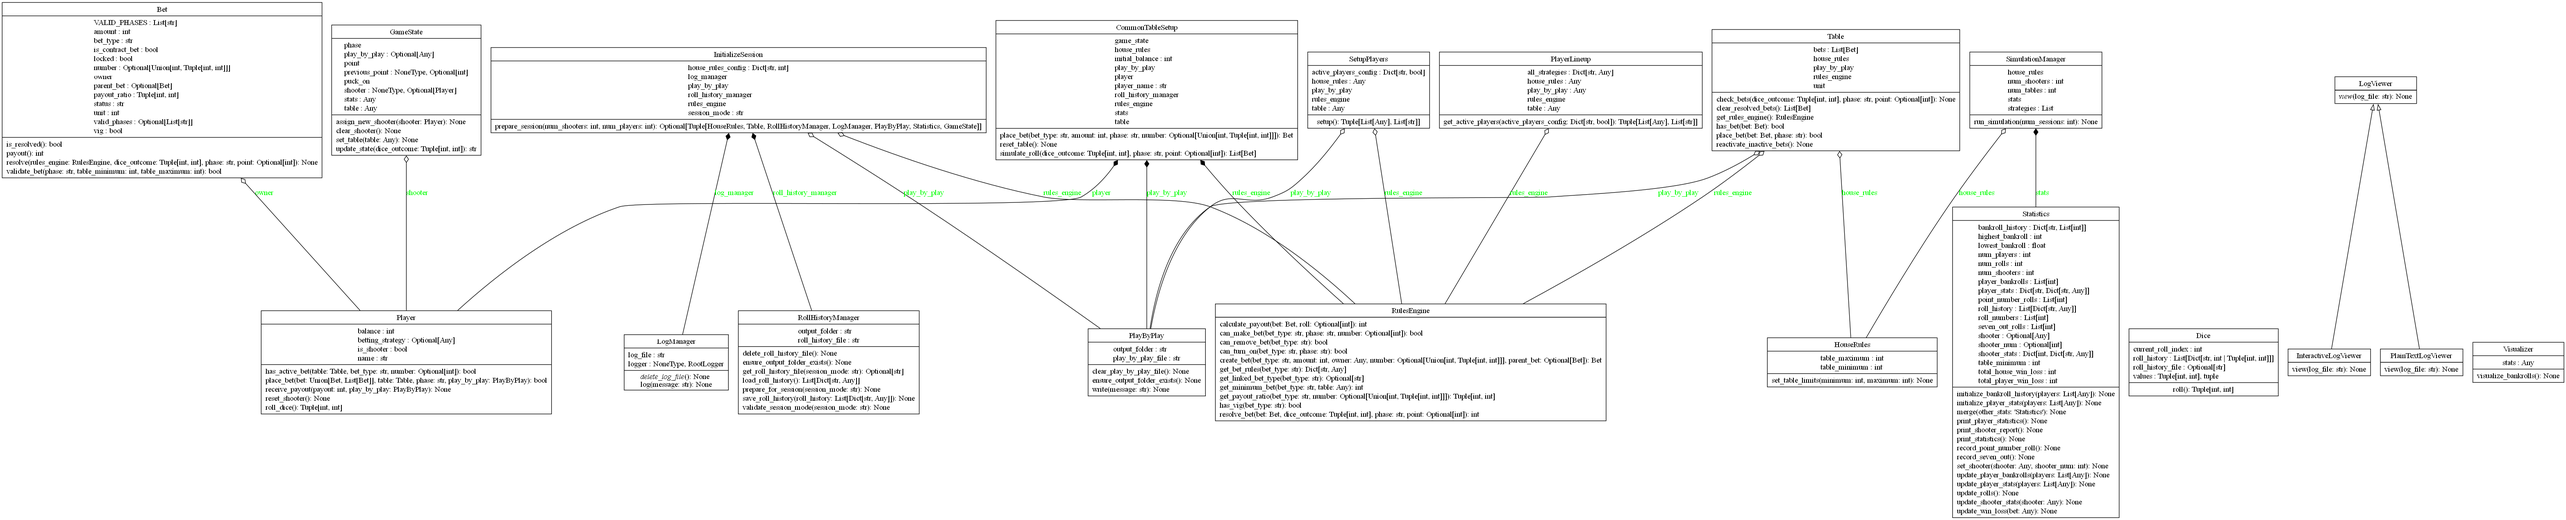
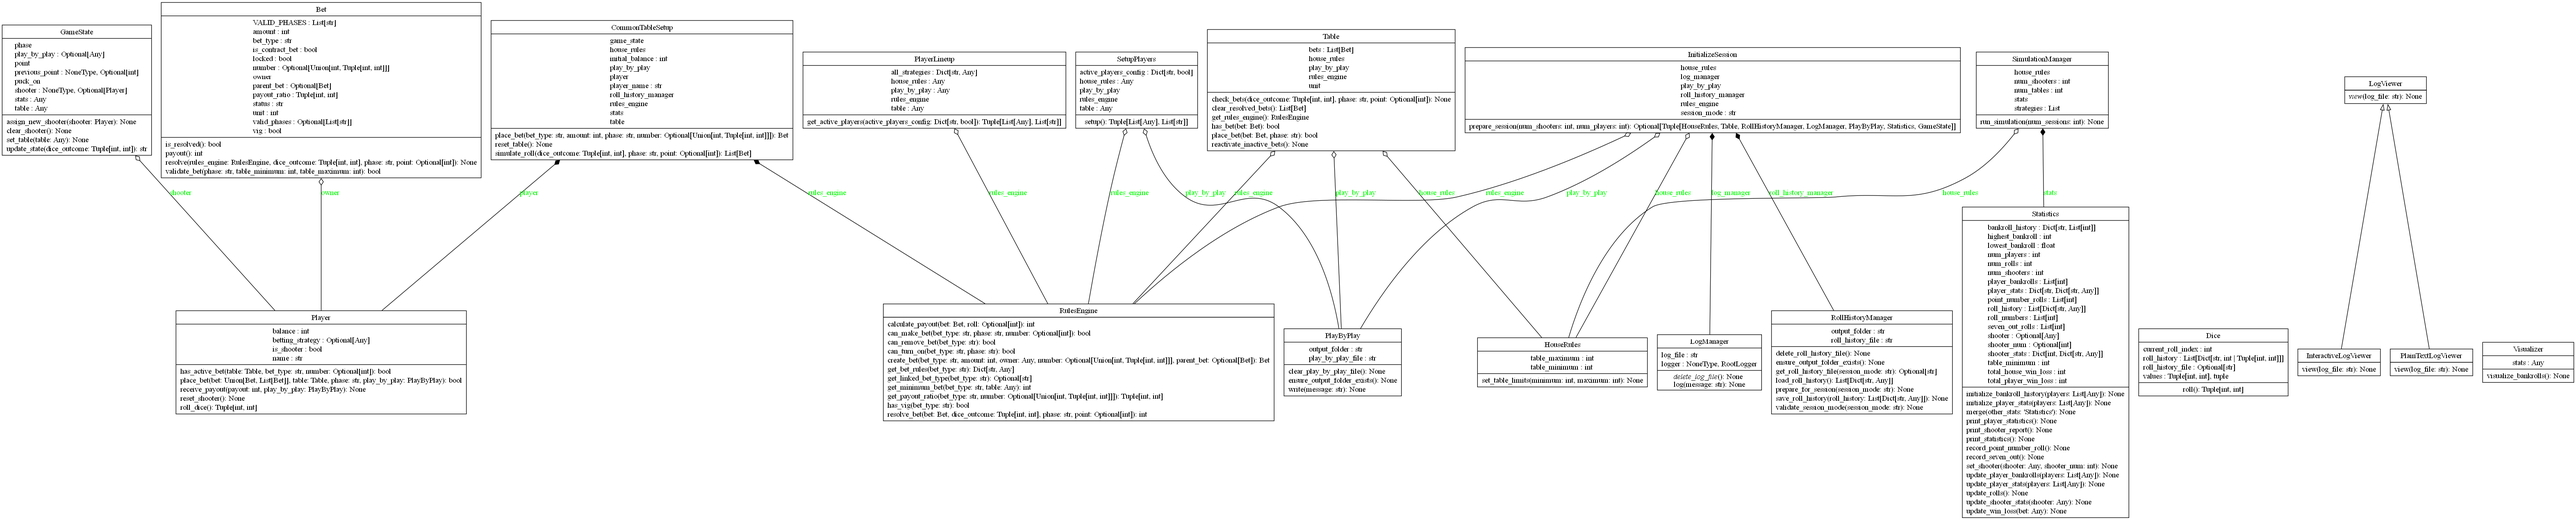
Refactored HouseRules on Session Initialization

diff --git a/craps/single_session.py b/craps/single_session.py
@@ -1,7 +1,5 @@
 from colorama import init, Fore, Style
 from typing import List, Optional, Any
-from craps.table import Table
-from craps.game_state import GameState
 from craps.player import Player
 from craps.dice import Dice
 from craps.statistics import Statistics
@@ -9,64 +7,77 @@ from craps.house_rules import HouseRules
 from craps.log_manager import LogManager
 from craps.session_initializer import InitializeSession
 from craps.rules_engine import RulesEngine
-from craps.log_manager import LogManager
 from craps.play_by_play import PlayByPlay
+from config import HOUSE_RULES
 import os
 
 def run_single_session(
-    house_rules: HouseRules,
-    strategies: List[Any],
+    house_rules: Optional[HouseRules] = None,  # ✅ Default to None, fix later
+    strategies: Optional[List[Any]] = None,
     player_names: Optional[List[str]] = None, 
-    initial_bankroll: int = 500, 
-    num_shooters: int = 10, 
+    initial_bankroll: Optional[int] = 500, 
+    num_shooters: Optional[int] = 10, 
     roll_history_file: Optional[str] = None
 ) -> Statistics:
     """
     Run a single session of craps and log the roll history.
     """
     init()  # Initialize colorama
+    
+    # ✅ Ensure house_rules is an object, not a dict
+    if house_rules is None:
+        house_rules = HouseRules(HOUSE_RULES)  # ✅ Convert from dict if needed
 
     # Set dice mode
     dice = Dice(roll_history_file) if roll_history_file and os.path.exists(roll_history_file) else Dice()
 
-    # ✅ Initialize session level objects
+    # ✅ Initialize session-level objects
     rules_engine = RulesEngine()
     play_by_play = PlayByPlay()
     log_manager = LogManager()
 
-    # ✅ Pass RulesEngine to InitializeSession
     session_initializer = InitializeSession(
-        session_mode="live", 
-        house_rules_config={"table_minimum": house_rules.table_minimum, "table_maximum": house_rules.table_maximum},
-        play_by_play=play_by_play,  # ✅ Fix: Now passing PlayByPlay
-        log_manager=log_manager,  # ✅ Fix: Now passing LogManager
+        session_mode="live",
+        house_rules=house_rules,  # ✅ Now guaranteed to be a HouseRules object
+        play_by_play=play_by_play,
+        log_manager=log_manager,
         rules_engine=rules_engine
     )
-    session_data = session_initializer.prepare_session(num_shooters, len(strategies))
-    
+    session_data = session_initializer.prepare_session(
+        num_shooters or 10,  # ✅ Default if None
+        len(strategies or [])  # ✅ Safe check for None
+    )
+
     if session_data is None:
         raise RuntimeError("Failed to initialize session.")
 
     house_rules, table, roll_history_manager, log_manager, play_by_play, stats, game_state = session_data
 
-    # Create players with different betting strategies
+    # ✅ Ensure player names are assigned
     if player_names is None:
-        player_names = [f"Player {i+1}" for i in range(len(strategies))]
+        player_names = [f"Player {i+1}" for i in range(len(strategies or []))]
 
+    # ✅ Ensure initial bankroll is an int
     players = [
-        Player(player_names[i], initial_balance=initial_bankroll, betting_strategy=strategy)
-        for i, strategy in enumerate(strategies)
+        Player(player_names[i], initial_balance=initial_bankroll or 500, betting_strategy=strategy)
+        for i, strategy in enumerate(strategies or [])
     ]
 
-    # Initialize bankroll history with the starting bankroll for each player
+    # ✅ Initialize bankroll history with the starting bankroll for each player
     stats.initialize_bankroll_history(players)
 
-    # Initialize roll history
+    # ✅ Ensure players is always valid
+    if not players:
+        raise RuntimeError("No players found. Cannot start session.")
+
+    # ✅ Initialize roll history
     roll_history = []
 
-    # Simulate shooters
+    # ✅ Simulate shooters
+    if num_shooters is None: num_shooters = 10
+
     for shooter_num in range(1, num_shooters + 1):
-        player_index = (shooter_num - 1) % len(players)
+        player_index = (shooter_num - 1) % len(players)  # ✅ Safe calculation
         shooter = players[player_index]
 
         # Assign new shooter via GameState
@@ -80,7 +91,7 @@ def run_single_session(
                     player.place_bet(bet, table, game_state.phase, play_by_play)
 
             # Roll the dice and resolve bets
-            outcome = (dice.roll())  # Now returns Tuple[int, int]
+            outcome = dice.roll()  # Now returns Tuple[int, int]
             total = sum(outcome)
             stats.update_rolls()
             stats.update_shooter_stats(shooter)
@@ -128,6 +139,6 @@ def run_single_session(
                 game_state.clear_shooter()  # Reset shooter status
                 break  # Move to next shooter
 
-    # Return stats and roll history
+    # ✅ Return stats and roll history
     stats.roll_history = roll_history
     return stats

diff --git a/craps/session_initializer.py b/craps/session_initializer.py
@@ -1,4 +1,4 @@
-from typing import Dict, Tuple, Optional
+from typing import Tuple, Optional
 from craps.house_rules import HouseRules
 from craps.table import Table
 from craps.roll_history_manager import RollHistoryManager
@@ -12,7 +12,7 @@ class InitializeSession:
     def __init__(
         self, 
         session_mode: str, 
-        house_rules_config: Dict[str, int], 
+        house_rules: HouseRules,
         play_by_play: PlayByPlay, 
         rules_engine: RulesEngine, 
         log_manager: Optional[LogManager] = None
@@ -21,13 +21,13 @@ class InitializeSession:
         Initialize the session.
 
         :param session_mode: The session mode ("live" or "history").
-        :param house_rules_config: The house rules configuration.
-        :param play_by_play: The PlayByPlay instance for logging messages.
-        :param rules_engine: The RulesEngine instance to use.
-        :param log_manager: The LogManager instance for managing logs.
+        :param house_rules: The HouseRules instance of the session.
+        :param play_by_play: The PlayByPlay instance for logging session messages.
+        :param rules_engine: The RulesEngine instance to use for the session.
+        :param log_manager: The LogManager instance for managing session logs.
         """
         self.session_mode: str = session_mode
-        self.house_rules_config: Dict[str, int] = house_rules_config
+        self.house_rules: HouseRules = house_rules
         self.roll_history_manager: RollHistoryManager = RollHistoryManager()
         self.log_manager = log_manager or LogManager()
         self.play_by_play: PlayByPlay = play_by_play
@@ -43,14 +43,10 @@ class InitializeSession:
             print(f"Error: {e}")
             return None
 
-        # Initialize house rules
-        house_rules = HouseRules(self.house_rules_config)
-
-        # ✅ Pass RulesEngine to Table
-        table = Table(house_rules, self.play_by_play, self.rules_engine)
+        table = Table(self.house_rules, self.play_by_play, self.rules_engine)
 
         # Initialize Statistics and GameState
-        stats = Statistics(house_rules.table_minimum, num_shooters, num_players)
+        stats = Statistics(self.house_rules.table_minimum, num_shooters, num_players)
         game_state = GameState(stats, play_by_play=self.play_by_play)
         game_state.set_table(table)
 
@@ -60,4 +56,4 @@ class InitializeSession:
         # Clear the play-by-play file before starting the session
         self.play_by_play.clear_play_by_play_file()
 
-        return house_rules, table, self.roll_history_manager, self.log_manager, self.play_by_play, stats, game_state
+        return self.house_rules, table, self.roll_history_manager, self.log_manager, self.play_by_play, stats, game_state

diff --git a/main.py b/main.py
@@ -1,53 +1,25 @@
-# File: .\main.py
+# File: main.py
 
-from colorama import init, Fore, Style
-from config import ACTIVE_PLAYERS, SESSION_MODE, HOUSE_RULES
-from craps.session_initializer import InitializeSession
-from craps.player_setup import SetupPlayers
+from colorama import init
 from craps.single_session import run_single_session
-from craps.visualizer import Visualizer
 from craps.view_log import InteractiveLogViewer
+from craps.visualizer import Visualizer
 
 def main():
     init()  # Initialize colorama for colored text
 
-    # Initialize the session
-    session_initializer = InitializeSession(SESSION_MODE, HOUSE_RULES)
-    result = session_initializer.prepare_session()
-    if not result:
-        return  # Exit if session initialization fails
+    # Run the single session and get the statistics
+    stats = run_single_session()
 
-    house_rules, table, roll_history_manager, log_manager, play_by_play = result
-
-    # Set up players
-    player_setup = SetupPlayers(house_rules, table, ACTIVE_PLAYERS)
-    strategies, player_names = player_setup.setup()
-
-    # Get the roll history file based on the session mode
-    roll_history_file = roll_history_manager.get_roll_history_file(SESSION_MODE)
-
-    # Run the session
-    stats = run_single_session(
-        house_rules,
-        strategies,
-        player_names=player_names,
-        roll_history_file=roll_history_file,
-        play_by_play=play_by_play
-    )
-
-    # Save the roll history if running in live mode
-    if SESSION_MODE == "live":
-        roll_history_manager.save_roll_history(stats.roll_history)
-
-    # Print statistics
+    # Display statistics
     stats.print_statistics()
     stats.print_shooter_report()
     stats.print_player_statistics()
-    
-    # View the log file interactively
+
+    # View the play-by-play log
     log_viewer = InteractiveLogViewer()
-    log_viewer.view(play_by_play.play_by_play_file)
-    
+    log_viewer.view(stats.play_by_play_file)
+
     # Visualize player bankrolls
     visualizer = Visualizer(stats)
     visualizer.visualize_bankrolls()

diff --git a/craps/common.py b/craps/common.py
@@ -1,11 +1,10 @@
 from typing import Optional, List, Tuple, Union
+from config import HOUSE_RULES
 from craps.house_rules import HouseRules
-from craps.table import Table
+from craps.log_manager import LogManager
 from craps.play_by_play import PlayByPlay
 from craps.rules_engine import RulesEngine
 from craps.player import Player
-from craps.dice import Dice
-from craps.statistics import Statistics
 from craps.bet import Bet
 from craps.session_initializer import InitializeSession
 
@@ -15,17 +14,20 @@ class CommonTableSetup:
     def __init__(self) -> None:
         """Initialize the table, players, and other components for testing."""
 
-        # ✅ InitializeSession 
-        self.rules_engine = RulesEngine()
-        self.play_by_play = PlayByPlay()
+        # ✅ Create instances for required objects
+        house_rules = HouseRules(HOUSE_RULES)
+        play_by_play = PlayByPlay()
+        log_manager = LogManager()
+        rules_engine = RulesEngine()
 
+        # ✅ Use these in InitializeSession
         session_initializer = InitializeSession(
             session_mode="live",
-            house_rules_config={"table_minimum": 10, "table_maximum": 5000},
-            play_by_play=self.play_by_play,
-            rules_engine=self.rules_engine,
-            log_manager=None  # Tests likely don’t need full logging
-        )
+            house_rules=house_rules,
+            play_by_play=play_by_play,
+            log_manager=log_manager,
+            rules_engine=rules_engine
+)
 
         session_data = session_initializer.prepare_session(num_shooters=10, num_players=1)
 
@@ -37,6 +39,7 @@ class CommonTableSetup:
         # ✅ Setup Player
         self.player_name = "Alice"
         self.initial_balance = 1000
+        self.rules_engine = RulesEngine()
         self.player = Player(self.player_name, self.initial_balance)
 
         # ✅ Setup Gamestate
